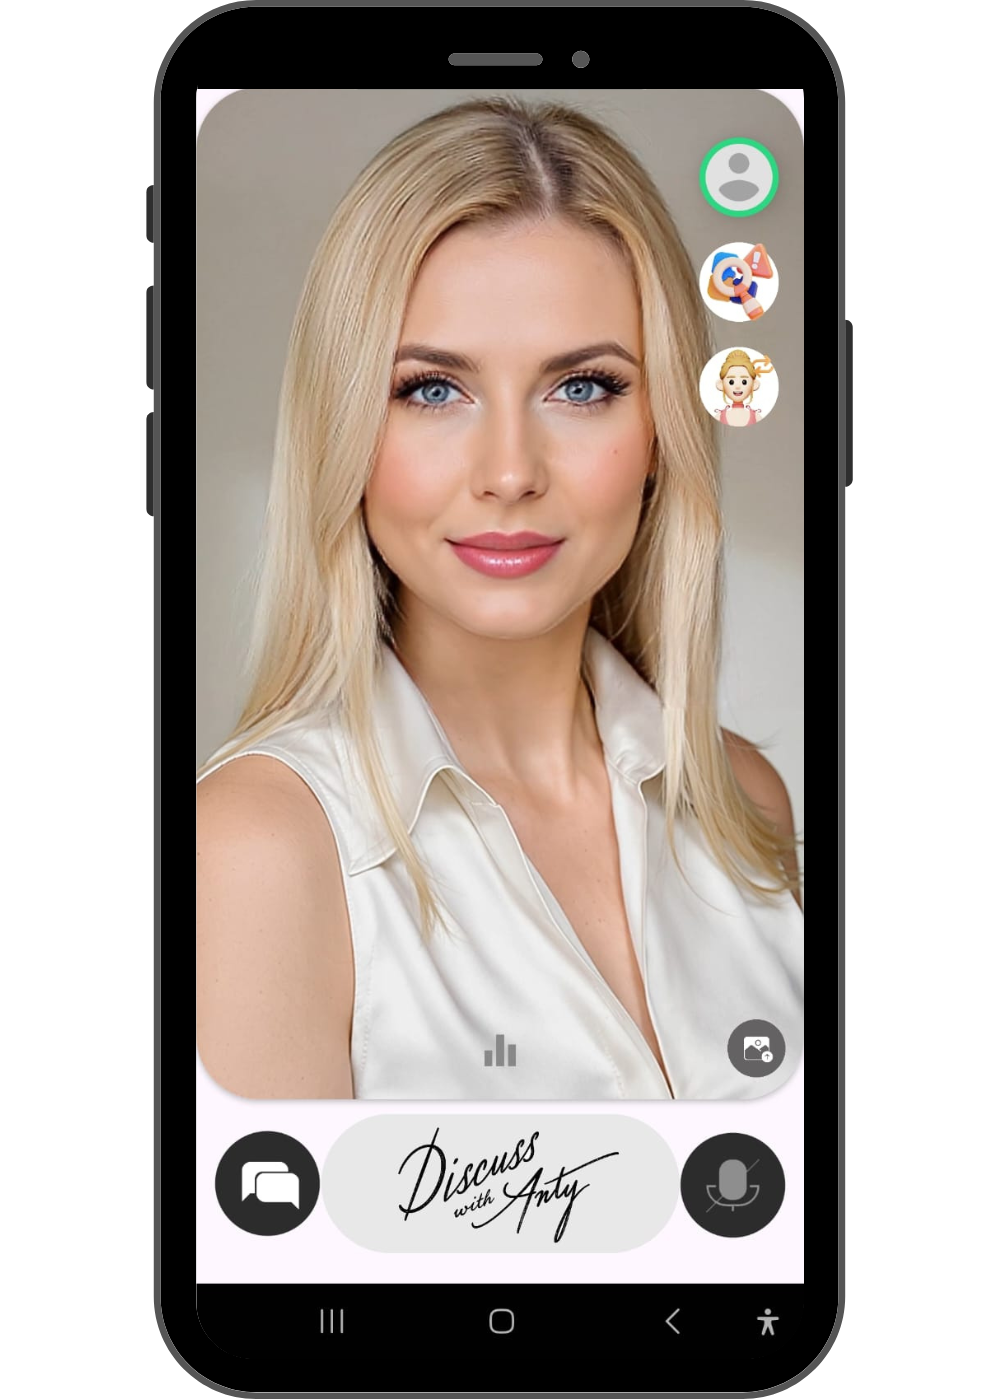
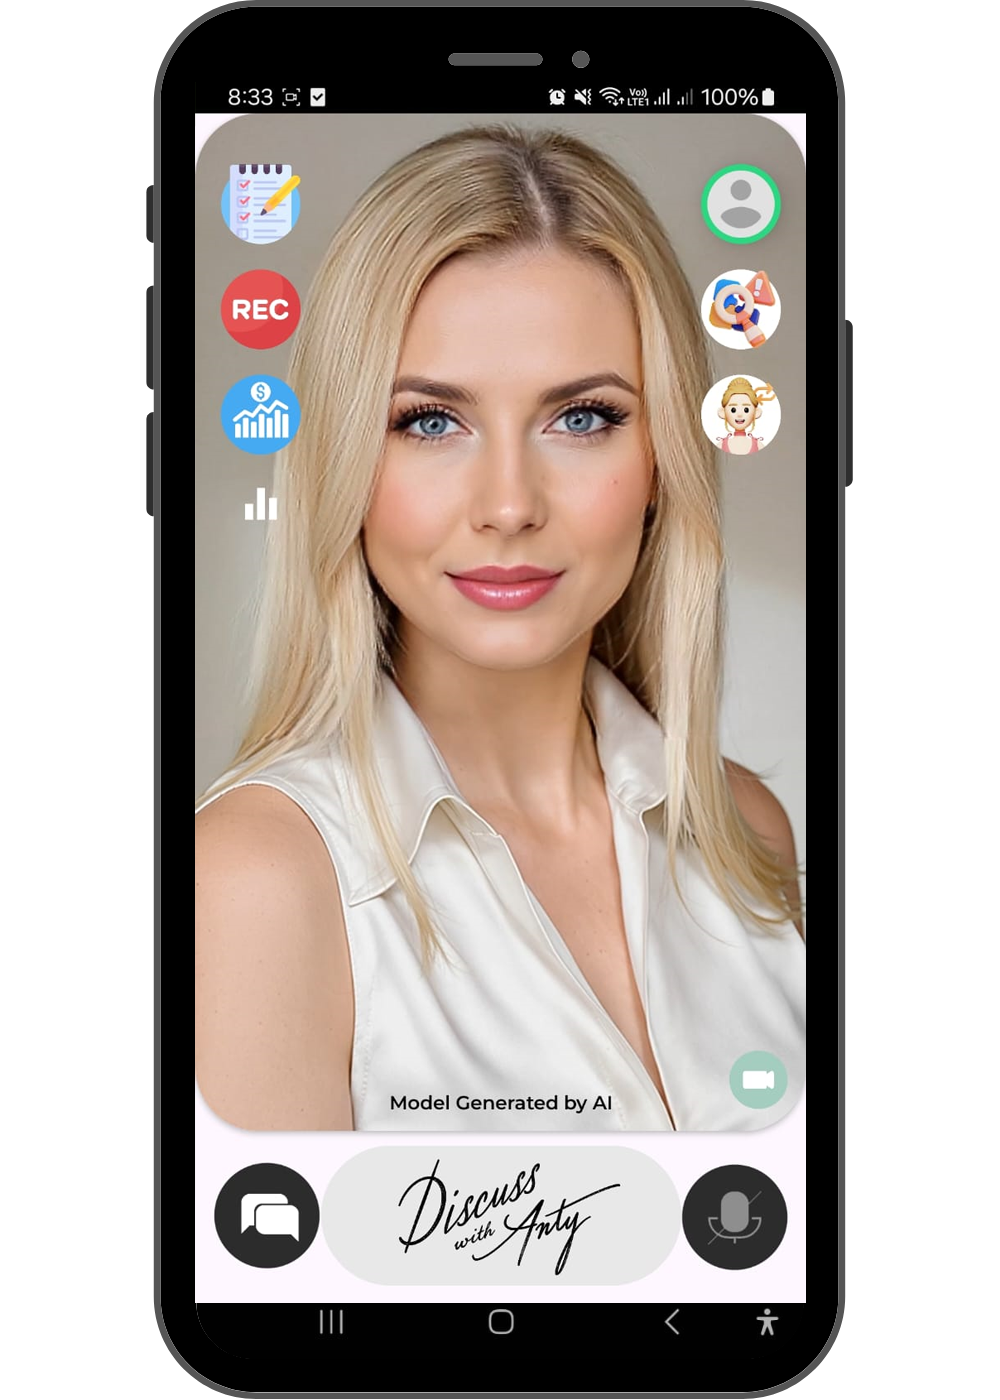
Change application mockup, and add gamesawit mockup

Changed region(s): [[0.186, 0.0614, 0.806, 0.9521]]

diff --git a/index.html b/index.html
@@ -439,9 +439,8 @@
                     <p class="section-subtitle text-muted text-center pt-4">Explore our innovative applications designed to solve real-world challenges.</p>
                 </div>
             </div>
-            
+
             <div class="row mt-5">
-                <!-- GanoAI -->
                 <div class="col-lg-3 col-md-6">
                     <div class="app-showcase">
                         <h4 class="gradient-text">GanoAI</h4>
@@ -449,14 +448,13 @@
                             <img src="images/application/gano.png" alt="GanoAI Application" class="app-image">
                             <div class="app-overlay">
                                 <div class="app-overlay-content">
-                                    <a href="https://ai-ganoderma.com/" class="btn btn-sm btn-light">Learn More</a>
+                                    <a href="https://ai-ganoderma.com/" target="_blank" class="btn btn-sm btn-light">Learn More</a>
                                 </div>
                             </div>
                         </div>
                     </div>
                 </div>
-                
-                <!-- SawitHarvest -->
+
                 <div class="col-lg-3 col-md-6">
                     <div class="app-showcase">
                         <h4 class="gradient-text">SawitHarvest</h4>
@@ -464,44 +462,51 @@
                             <img src="images/application/sawitharvest.png" alt="SawitHarvest Application" class="app-image">
                             <div class="app-overlay">
                                 <div class="app-overlay-content">
-                                    <a href="https://sawitharvest.com/" class="btn btn-sm btn-light">Learn More</a>
+                                    <a href="https://sawitharvest.com/" target="_blank" class="btn btn-sm btn-light">Learn More</a>
                                 </div>
                             </div>
                         </div>
                     </div>
                 </div>
-                
-                <!-- CallAgri -->
-                <div class="col-lg-3 col-md-6 mt-4 mt-md-0">
-                    <div class="app-showcase">
+
+                <div class="col-lg-3 col-md-6 mt-4 mt-lg-0"> <div class="app-showcase">
                         <h4 class="gradient-text">CallAgri</h4>
                         <div class="app-image-container">
                             <img src="images/application/callagri.png" alt="CallAgri Application" class="app-image">
                             <div class="app-overlay">
                                 <div class="app-overlay-content">
-                                    <a href="https://callagri-ai.com/" class="btn btn-sm btn-light">Learn More</a>
+                                    <a href="https://callagri-ai.com/" target="_blank" class="btn btn-sm btn-light">Learn More</a>
                                 </div>
                             </div>
                         </div>
                     </div>
                 </div>
-                
-                <!-- DiscussWithAnty -->
-                <div class="col-lg-3 col-md-6 mt-4 mt-md-0">
-                    <div class="app-showcase">
+
+                <div class="col-lg-3 col-md-6 mt-4 mt-lg-0"> <div class="app-showcase">
                         <h4 class="gradient-text">DiscussWithAnty</h4>
                         <div class="app-image-container">
                             <img src="images/application/discusswithanty.png" alt="DiscussWithAnty Application" class="app-image">
                             <div class="app-overlay">
                                 <div class="app-overlay-content">
-                                    <a href="https://discusswithanty.com/" class="btn btn-sm btn-light">Learn More</a>
+                                    <a href="https://discusswithanty.com/" target="_blank" class="btn btn-sm btn-light">Learn More</a>
                                 </div>
                             </div>
                         </div>
                     </div>
                 </div>
-            </div>
-        </div>
+            </div> <div class="row mt-5 justify-content-center"> <div class="col-lg-6"> <div class="app-showcase">
+                        <h4 class="gradient-text">GameSawit</h4>
+                        <div class="app-image-container">
+                            <img src="images/application/gamesawit.png" alt="GameSawit Application" class="app-image">
+                            <div class="app-overlay">
+                                <div class="app-overlay-content">
+                                    <a href="https://tortiedeveloper.github.io/Game-Sawit/" class="btn btn-sm btn-light">Learn More</a>
+                                </div>
+                            </div>
+                        </div>
+                    </div>
+                </div>
+            </div> </div>
     </section>
     <!-- END OUR APPLICATIONS -->
 
